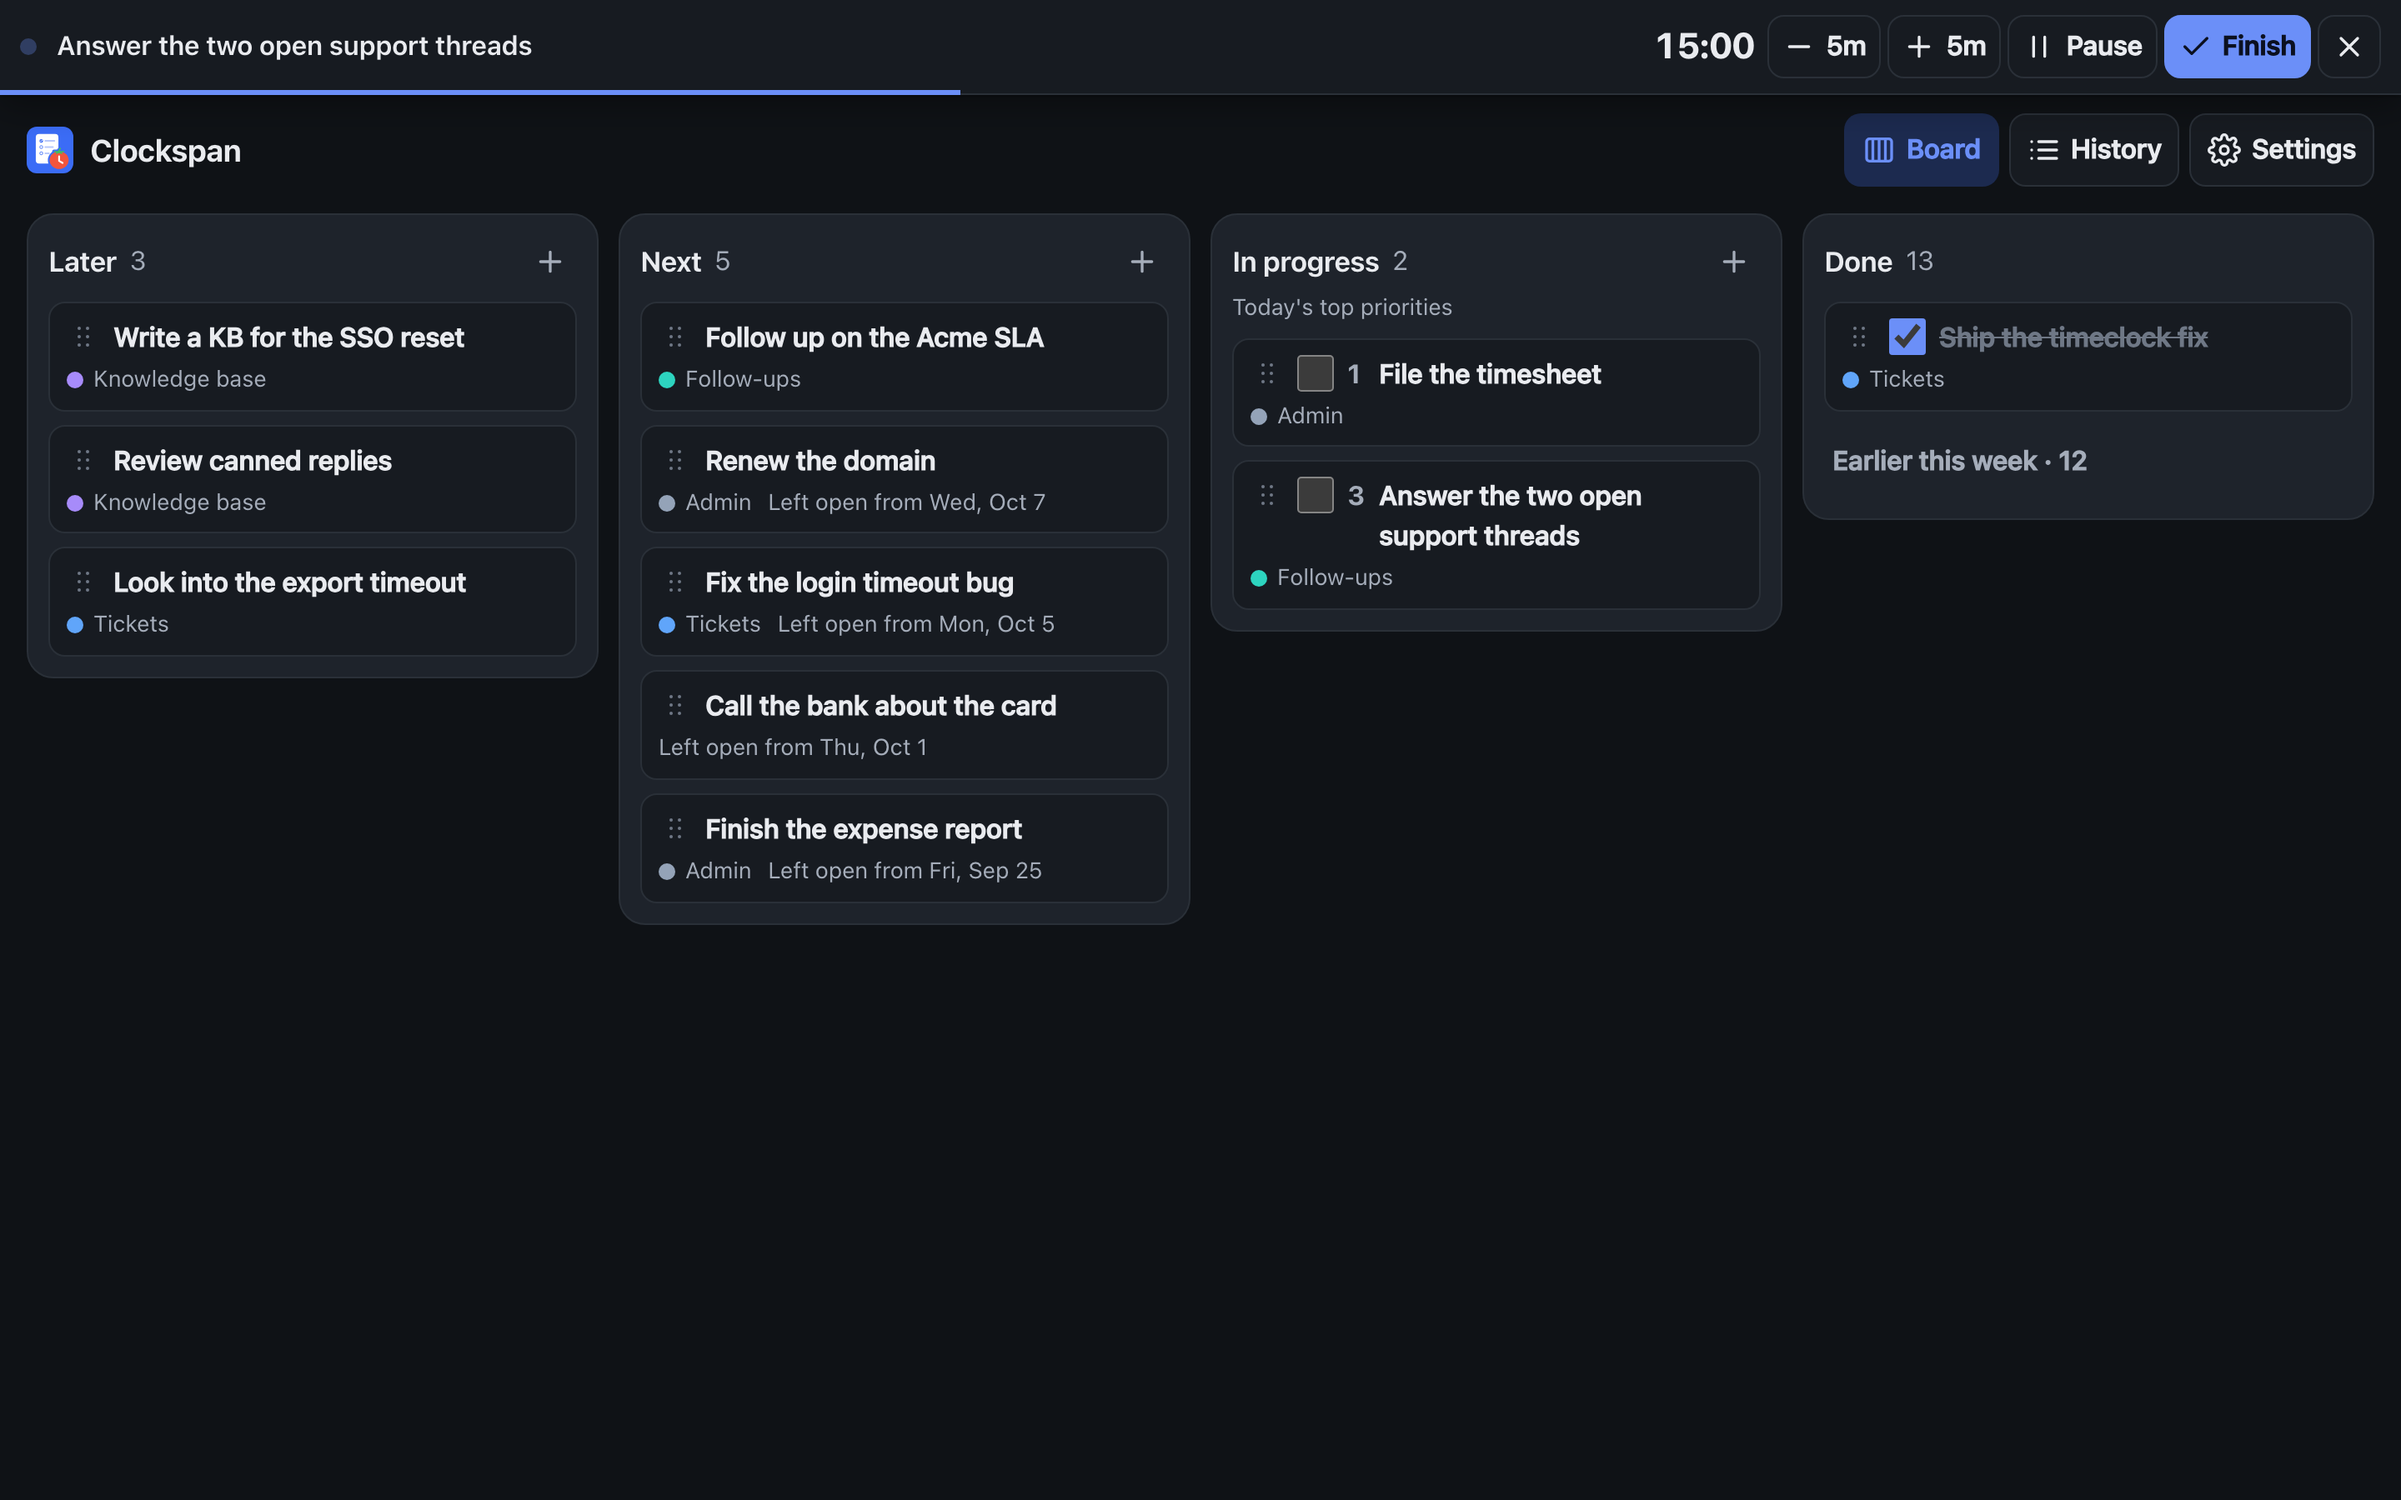
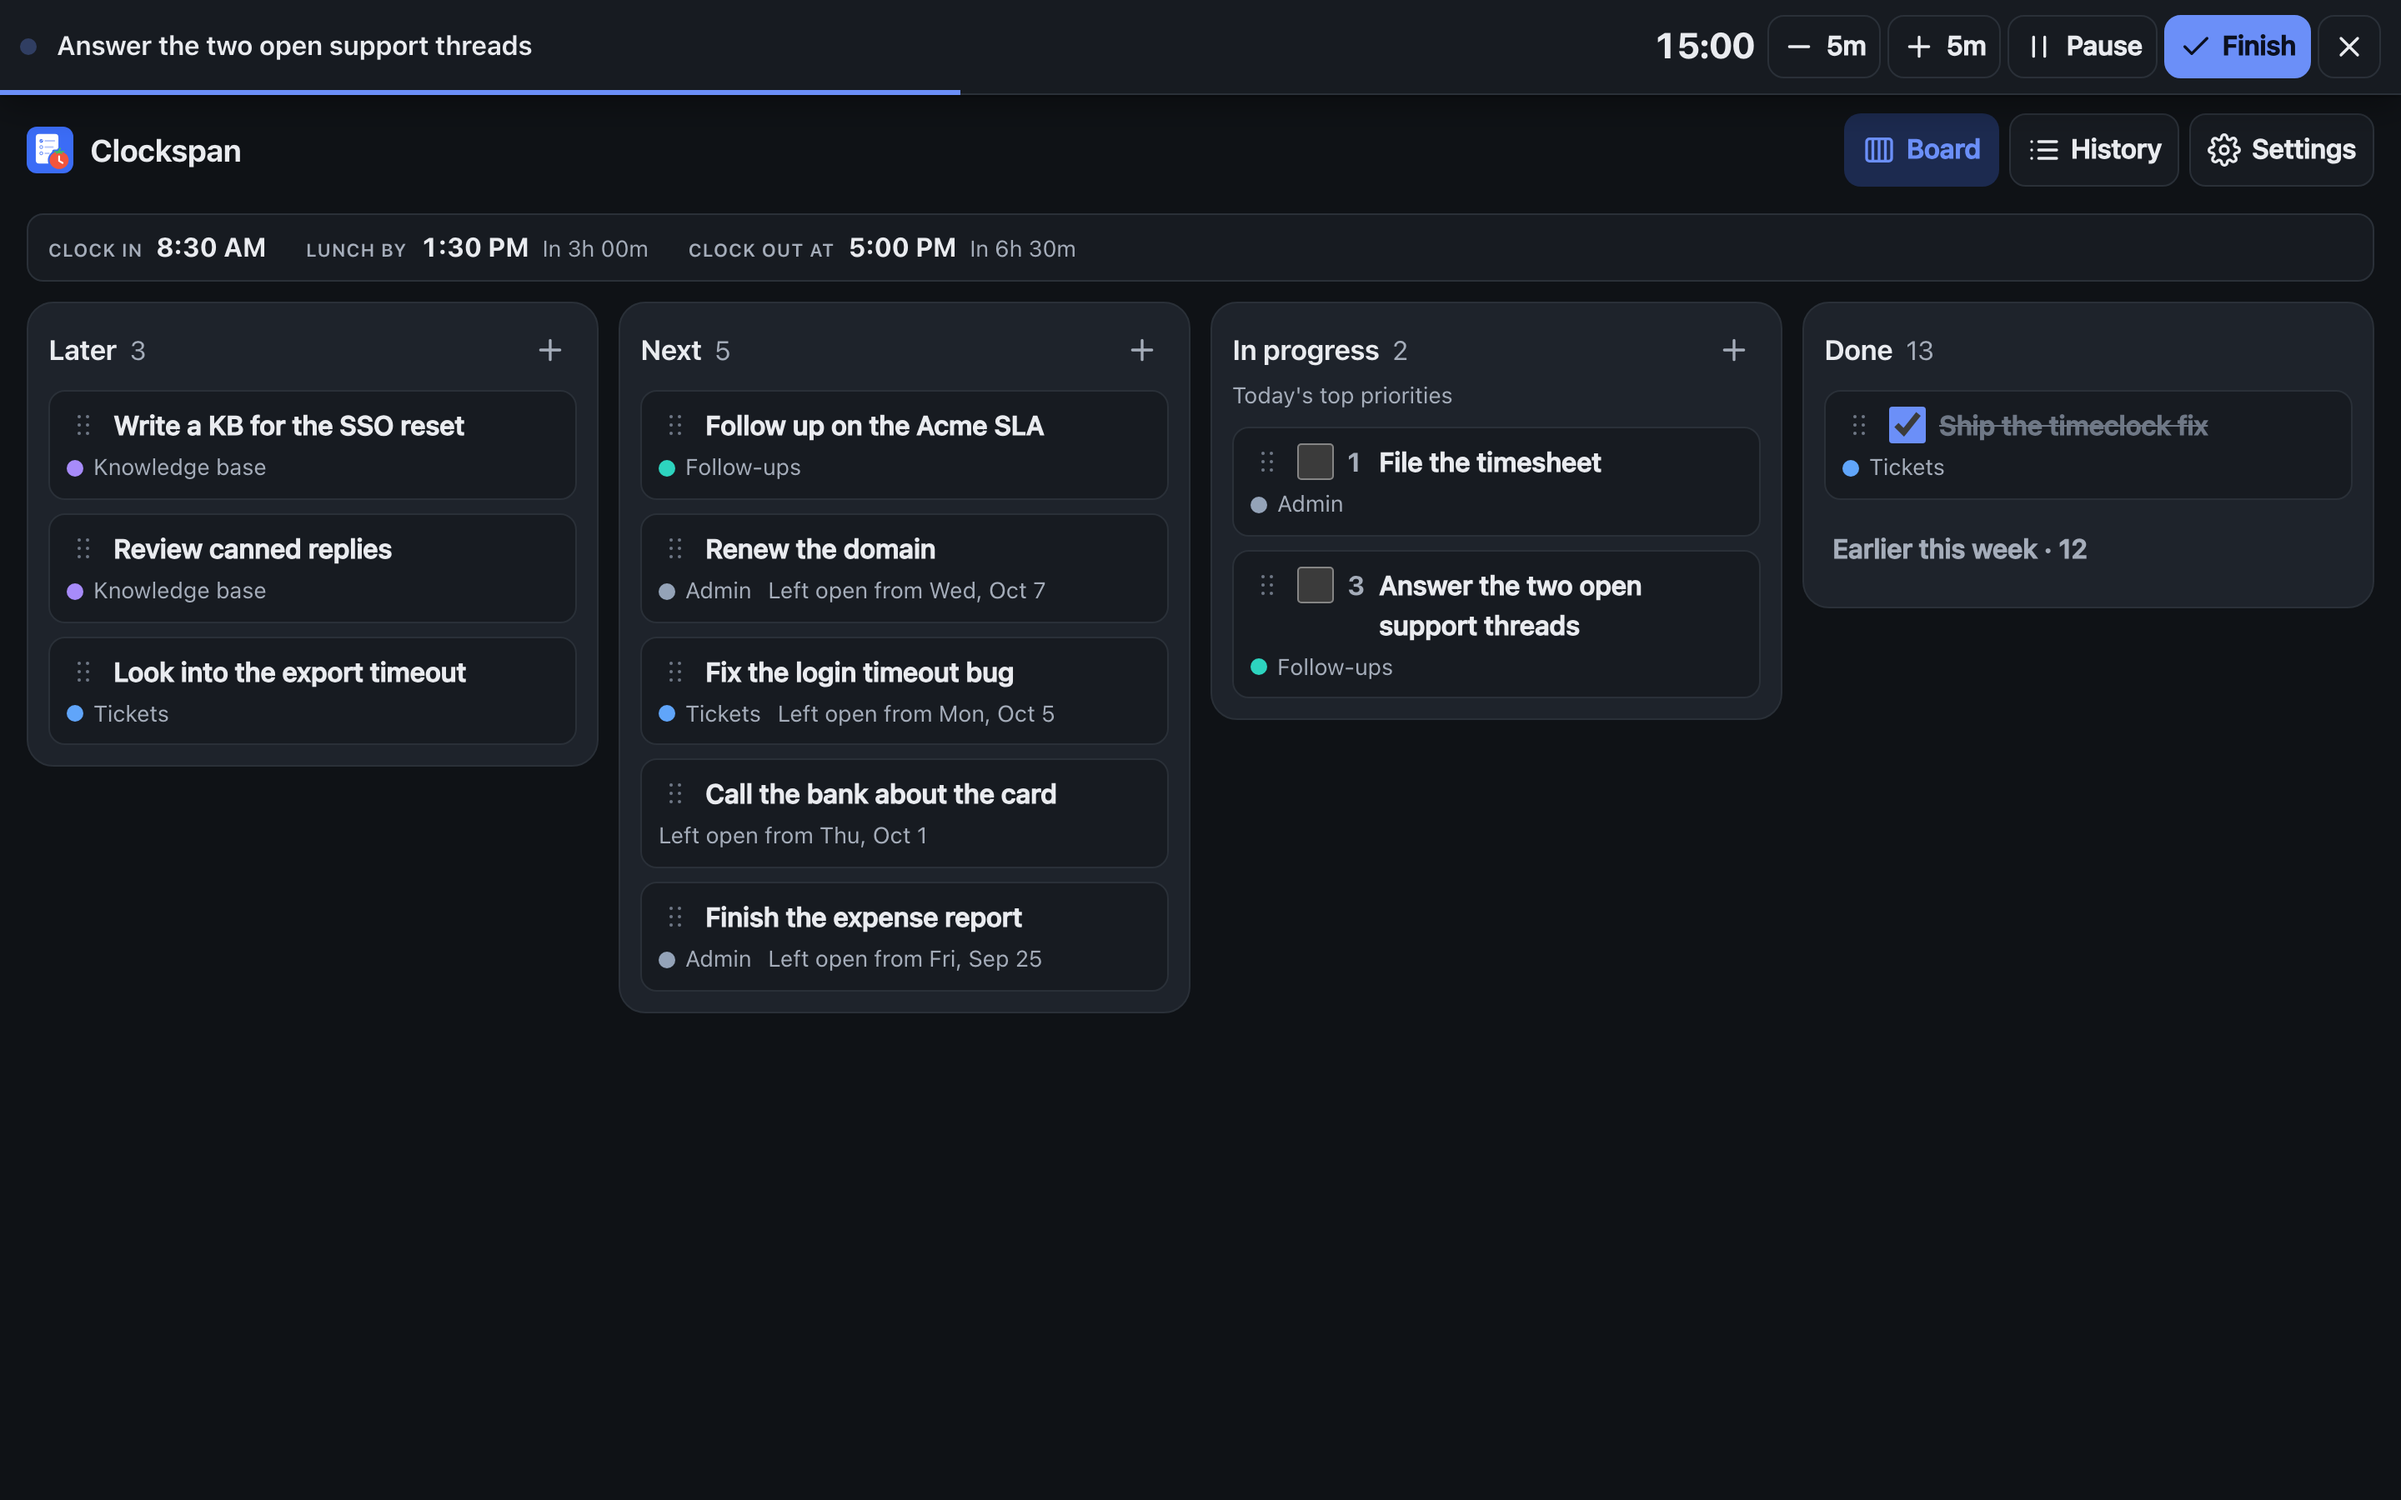
Address review findings

diff --git a/client/src/components/board/ClockBar.test.tsx b/client/src/components/board/ClockBar.test.tsx
@@ -60,6 +60,16 @@ describe('ClockBar', () => {
     ]);
   });
 
+  it('follows the Meal periods and Overtime settings', async () => {
+    vi.mocked(api.getSettings).mockResolvedValue(makeSettings({ timeFormat: '24h', mealRules: false, overtimeApproval: false }));
+    // A punched lunch still moves the clock out, with no Lunch by; time past the day isn't overtime.
+    await renderBar(makeDay(TODAY, { punches: punchesAt(at(8), at(12), at(12, 30)) }), at(17));
+    expect(items()).toEqual([
+      ['Clock in', hhmm(at(8))],
+      ['Clock out at', hhmm(at(16, 30)), '30m past your day'],
+    ]);
+  });
+
   it('names its region Timeclock and holds no live region, timer or tab stop', async () => {
     await renderBar(makeDay());
     const region = screen.getByRole('region', { name: 'Timeclock' });

diff --git a/client/src/styles.css b/client/src/styles.css
@@ -2497,11 +2497,6 @@ button.log-label:hover {
 .clock-bar .tile--danger .clock-bar-value {
   color: var(--danger-ink);
 }
-.clock-bar-line {
-  font-size: 0.78rem;
-  line-height: 1.3;
-  color: var(--tile-ink, var(--text-2));
-}
 @media (min-width: 640px) {
   .clock-bar dl {
     display: flex;
@@ -2512,9 +2507,6 @@ button.log-label:hover {
     display: flex;
     align-items: baseline;
     gap: 8px;
-  }
-  .clock-bar-line {
-    font-size: 0.85rem;
   }
 }
 .board-switch .segment {

diff --git a/client/src/components/board/ClockBar.tsx b/client/src/components/board/ClockBar.tsx
@@ -31,7 +31,7 @@ export function ClockBar({ day, today, now }: { day: Day; today: string; now: nu
           <div key={id} className={tone || undefined}>
             <dt>{LABELS[id]}</dt>
             <dd className="clock-bar-value">{value}</dd>
-            {sub && <dd className="clock-bar-line">{sub}</dd>}
+            {sub && <dd className="tile-sub">{sub}</dd>}
           </div>
         ))}
       </dl>

diff --git a/AGENTS.md b/AGENTS.md
@@ -556,7 +556,8 @@ scratchpad. The level a change is proven at is under "Verification expectations"
   `lib/timeclock.ts`: the first punch out of place and the one it should come after) are named by
   the sheet's notice (`PUNCH_ORDER`), which describes that row's field; such a day counts in no
   hours total (the week line, Review's worked time and target) and shows a dash and `CHECK_PUNCHES`
-  wherever its own hours would show (the sheet's tiles, History's cell and day panel).
+  wherever its own hours would show (the sheet's tiles, the board's clock bar, History's cell and
+  day panel).
 - **A punch row saves only complete times.** `TimeField` (React Aria segments) commits the moment
   hour, minute and period are all filled, and throws a half-typed draft away when focus leaves the
   field or on Escape, which keeps focus in the field, so the row never shows a time the server
